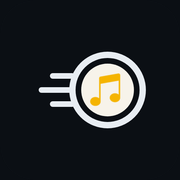
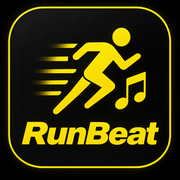
Instala o novo ícone oficial do app (RunBeat: boneco correndo + nota, quadrado preto/borda amarela)
Ícones quadrados (apple-touch-icon*, icon-120/152/167/180/192) achatados
pra opacos (sem alpha, exigência do iOS); icon-512 mantém a transparência
original pro manifest/splash. A logo do cabeçalho (img/logo-mark.png) passa
a ser um recorte do próprio ícone (boneco+nota, fundo transparente), no
lugar do ícone.svg antigo — removido, junto com a referência ao favicon.
Ajusta a largura da logo e os espaçamentos do cabeçalho pra caber ao lado
do seletor PT/EN e do botão de ajuda sem estourar a tela.

diff --git a/public/css/style.css b/public/css/style.css
@@ -68,13 +68,19 @@ header {
   display: flex;
   align-items: flex-start;
   justify-content: space-between;
-  gap: 12px;
+  gap: 8px;
 }
 
+/* min-width:0 pra poder encolher (ver .title-text abaixo) — sem isso, um
+   item flex não encolhe além da largura intrínseca do conteúdo, e a logo
+   mais larga (glifo horizontal, recortado do ícone novo) empurrava o botão
+   de ajuda (.header-actions) pra fora da tela em vez de dividir o espaço. */
 .title-row {
   display: flex;
   align-items: flex-start;
-  gap: 10px;
+  gap: 8px;
+  min-width: 0;
+  flex: 1;
 }
 
 .header-logo {
@@ -83,6 +89,21 @@ header {
   height: 36px;
   width: auto;
   flex-shrink: 0;
+}
+
+/* Bloco do título+tagline: precisa de min-width:0 (mesmo motivo do
+   .title-row acima) — e o <h1> ganha o mesmo tratamento de nowrap+ellipsis
+   que a .tagline já tinha, como rede de segurança pro caso raro de faltar
+   espaço (nunca deve realmente cortar "RunBeat" na prática). */
+.title-text {
+  min-width: 0;
+}
+
+.title-text h1 {
+  min-width: 0;
+  overflow: hidden;
+  text-overflow: ellipsis;
+  white-space: nowrap;
 }
 
 .header-actions {
@@ -106,7 +127,7 @@ header {
 .lang-btn {
   width: auto;
   margin-top: 0;
-  padding: 4px 9px;
+  padding: 4px 7px;
   border-radius: 999px;
   background: transparent;
   border: none;
@@ -149,8 +170,8 @@ header h1 {
 }
 
 .help-btn {
-  width: 36px;
-  height: 36px;
+  width: 34px;
+  height: 34px;
   padding: 0;
   margin-top: 2px;
   border-radius: 50%;
@@ -164,8 +185,8 @@ header h1 {
 }
 
 .help-btn svg {
-  width: 18px;
-  height: 18px;
+  width: 17px;
+  height: 17px;
 }
 
 .step-card {

diff --git a/public/index.html b/public/index.html
@@ -5,7 +5,7 @@
 <meta name="viewport" content="width=device-width, initial-scale=1, viewport-fit=cover" />
 <title>RunBeat</title>
 <link rel="manifest" href="manifest.json" />
-<link rel="icon" href="icon.svg" type="image/svg+xml" />
+<link rel="icon" href="icon-512.png" type="image/png" />
 <!-- iOS ignora o manifest.json pra decidir o ícone da tela de início — só
      olha esses links "apple-touch-icon" (e, por convenção própria, também
      tenta "/apple-touch-icon.png" direto na raiz, por isso esse arquivo
@@ -57,7 +57,7 @@
     <div class="header-row">
       <div class="title-row">
         <img src="img/logo-mark.png" alt="" class="header-logo" />
-        <div>
+        <div class="title-text">
           <h1>RunBeat</h1>
           <p class="tagline" data-i18n="tagline">A música certa na hora certa.</p>
         </div>

diff --git a/public/sw.js b/public/sw.js
@@ -3,12 +3,11 @@
 // nova da rede primeiro, e só caindo pro cache se a rede falhar. Um app em
 // desenvolvimento ativo muda de código com frequência; cache-first faria o
 // usuário ficar preso numa versão antiga mesmo depois de um deploy novo.
-const CACHE_NAME = "runbeat-shell-v47";
+const CACHE_NAME = "runbeat-shell-v48";
 const SHELL_FILES = [
   "./",
   "./index.html",
   "./manifest.json",
-  "./icon.svg",
   "./apple-touch-icon.png",
   "./apple-touch-icon-precomposed.png",
   "./icon-120.png",

diff --git a/README.md b/README.md
@@ -31,11 +31,20 @@ bold — `--font-display`, nos títulos e no nome "RunBeat"), no lugar da
 "Archivo" anterior. Fundo com textura marmorizada preta (imagem em
 `public/img/bg-marble.webp`). Os cartões (seções) têm fundo semitransparente
 com desfoque (`backdrop-filter`), deixando a textura do fundo aparecer
-sutilmente atrás do conteúdo. O logo (`icon.svg`) — um círculo com linhas de
-movimento e uma nota musical — aparece ao lado do nome "RunBeat" no
-cabeçalho, que fica com um respiro extra no topo (`env(safe-area-inset-top)`)
-pra não ficar atrás do relógio/notch do celular. O botão de ajuda (antes um
-"?") agora usa um ícone de engrenagem.
+sutilmente atrás do conteúdo. O logo (`img/logo-mark.png`) — o boneco
+correndo com linhas de movimento e a nota musical, recortado do ícone
+oficial do app com fundo transparente — aparece ao lado do nome "RunBeat"
+no cabeçalho, que fica com um respiro extra no topo
+(`env(safe-area-inset-top)`) pra não ficar atrás do relógio/notch do
+celular. O botão de ajuda (antes um "?") agora usa um ícone de engrenagem.
+
+O ícone do app (tela de início, splash, favicon) foi trocado pelo ícone
+oficial da marca: quadrado preto com borda amarela arredondada, o mesmo
+boneco correndo + nota musical, e o nome "RunBeat" por extenso embaixo.
+Os arquivos quadrados (`apple-touch-icon*.png`, `icon-120/152/167/180/
+192.png`) são versões achatadas/opacas dele (sem canal alpha — exigência do
+iOS, ver comentário em `index.html`); só o `icon-512.png` (splash e
+manifest) mantém a transparência original nos cantos arredondados.
 
 O painel da tela de corrida ("Painel em tempo real") foi reformulado num
 layout de duas colunas — SPM (cadência real) à esquerda, BPM (batida da
@@ -365,7 +374,7 @@ runbeat/
     ├── index.html
     ├── manifest.json         # manifesto PWA
     ├── sw.js                 # service worker (cache do app shell)
-    ├── icon.svg
+    ├── icon-*.png            # ícones do app (tela de início/splash/favicon)
     ├── css/style.css
     ├── img/
     │   └── bg-marble.webp    # textura de fundo
